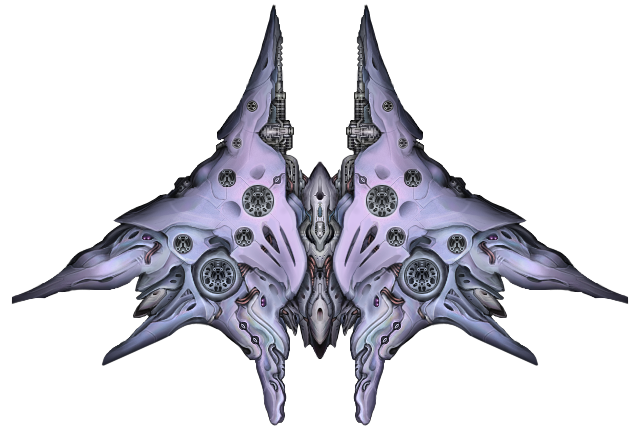
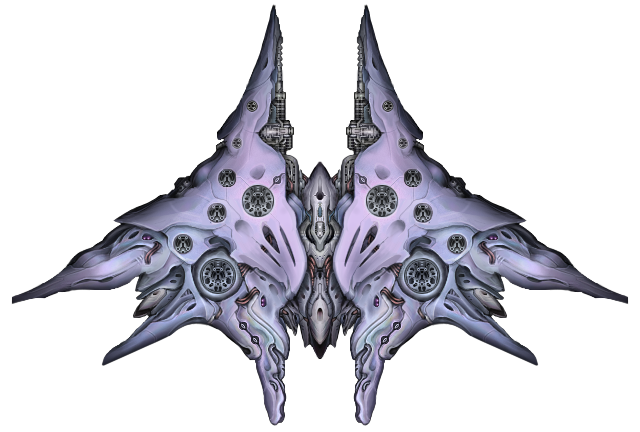
Yukionna sprite/mount update Fixed glow sprite alignment for phase skip Added helper for computing sprite center

Changed region(s): [[0.5938, 0.4514, 0.6875, 0.5718], [0.3125, 0.4514, 0.4062, 0.5718]]

diff --git a/src/org/selkie/kol/helpers/MathHelpers.kt b/src/org/selkie/kol/helpers/MathHelpers.kt
@@ -1,0 +1,17 @@
+package org.selkie.kol.helpers
+
+import com.fs.starfarer.api.combat.ShipAPI
+import org.lazywizard.lazylib.FastTrig
+import org.lwjgl.util.vector.Vector2f
+
+object MathHelpers {
+    @JvmStatic
+    fun computeSpriteCenter(ship: ShipAPI): Vector2f {
+        val sprite = ship.spriteAPI
+        val offsetX = sprite.width / 2 - sprite.centerX
+        val offsetY = sprite.height / 2 - sprite.centerY
+        val trueOffsetX = FastTrig.cos(Math.toRadians((ship.facing - 90f).toDouble())).toFloat() * offsetX - FastTrig.sin(Math.toRadians((ship.facing - 90f).toDouble())).toFloat() * offsetY
+        val trueOffsetY = FastTrig.sin(Math.toRadians((ship.facing - 90f).toDouble())).toFloat() * offsetX + FastTrig.cos(Math.toRadians((ship.facing - 90f).toDouble())).toFloat() * offsetY
+        return Vector2f(ship.location.x + trueOffsetX, ship.location.y + trueOffsetY)
+    }
+}

diff --git a/src/org/selkie/kol/impl/shipsystems/PhasespaceSkip.java b/src/org/selkie/kol/impl/shipsystems/PhasespaceSkip.java
@@ -6,9 +6,11 @@ import com.fs.starfarer.api.combat.CollisionClass;
 import com.fs.starfarer.api.combat.CombatEntityAPI;
 import com.fs.starfarer.api.combat.MutableShipStatsAPI;
 import com.fs.starfarer.api.combat.ShipAPI;
+import com.fs.starfarer.api.graphics.SpriteAPI;
 import com.fs.starfarer.api.impl.combat.BaseShipSystemScript;
 import com.fs.starfarer.api.util.Misc;
 import org.lazywizard.lazylib.CollisionUtils;
+import org.lazywizard.lazylib.FastTrig;
 import org.lazywizard.lazylib.MathUtils;
 import org.lazywizard.lazylib.VectorUtils;
 import org.lwjgl.util.vector.Vector2f;
@@ -17,6 +19,8 @@ import org.selkie.kol.impl.fx.FakeSmokePlugin;
 
 import java.awt.*;
 import java.util.Iterator;
+
+import static org.selkie.kol.helpers.MathHelpers.computeSpriteCenter;
 
 public class PhasespaceSkip extends BaseShipSystemScript {
     //Main phase color
@@ -83,11 +87,13 @@ public class PhasespaceSkip extends BaseShipSystemScript {
         ship.setExtraAlphaMult(1f - (1f - SHIP_ALPHA_MULT) * effectLevel);
         ship.setApplyExtraAlphaToEngines(true);
 
+        //We need to compute the actual sprite center to account for the ship center offset
+        Vector2f spriteCenter = computeSpriteCenter(ship);
 
         //Moves the "phantom" to its appropriate location
         Vector2f phantomPos = MathUtils.getRandomPointInCircle(null, PHANTOM_DISTANCE_DIFFERENCE);
-        phantomPos.x += ship.getLocation().x;
-        phantomPos.y += ship.getLocation().y;
+        phantomPos.x += spriteCenter.x;
+        phantomPos.y += spriteCenter.y;
 
         //If we are outside the screenspace, don't do the extra visual effects
         if (!Global.getCombatEngine().getViewport().isNearViewport(phantomPos, ship.getCollisionRadius() * 1.5f)) {
@@ -96,9 +102,9 @@ public class PhasespaceSkip extends BaseShipSystemScript {
 
         //Special, "Semi-Fixed" phantom
         Color colorToUse = new Color(((float) PHASE_COLOR.getRed() / 255f), ((float) PHASE_COLOR.getGreen() / 255f), ((float) PHASE_COLOR.getBlue() / 255f), ((float) PHASE_COLOR.getAlpha() / 255f) * effectLevel);
-        MagicRender.singleframe(Global.getSettings().getSprite("zea_phase_glows", "" + ship.getHullSpec().getBaseHullId() + "_glow1"), ship.getLocation(),
+        MagicRender.singleframe(Global.getSettings().getSprite("zea_phase_glows", "" + ship.getHullSpec().getBaseHullId() + "_glow1"), spriteCenter,
                 new Vector2f(ship.getSpriteAPI().getWidth(), ship.getSpriteAPI().getHeight()), ship.getFacing() - 90f, colorToUse, true);
-        MagicRender.singleframe(Global.getSettings().getSprite("zea_phase_glows", "" + ship.getHullSpec().getBaseHullId() + "_glow2"), ship.getLocation(),
+        MagicRender.singleframe(Global.getSettings().getSprite("zea_phase_glows", "" + ship.getHullSpec().getBaseHullId() + "_glow2"), spriteCenter,
                 new Vector2f(ship.getSpriteAPI().getWidth(), ship.getSpriteAPI().getHeight()), ship.getFacing() - 90f, colorToUse, true);
 
         //If enough time has passed, render a new phantom
